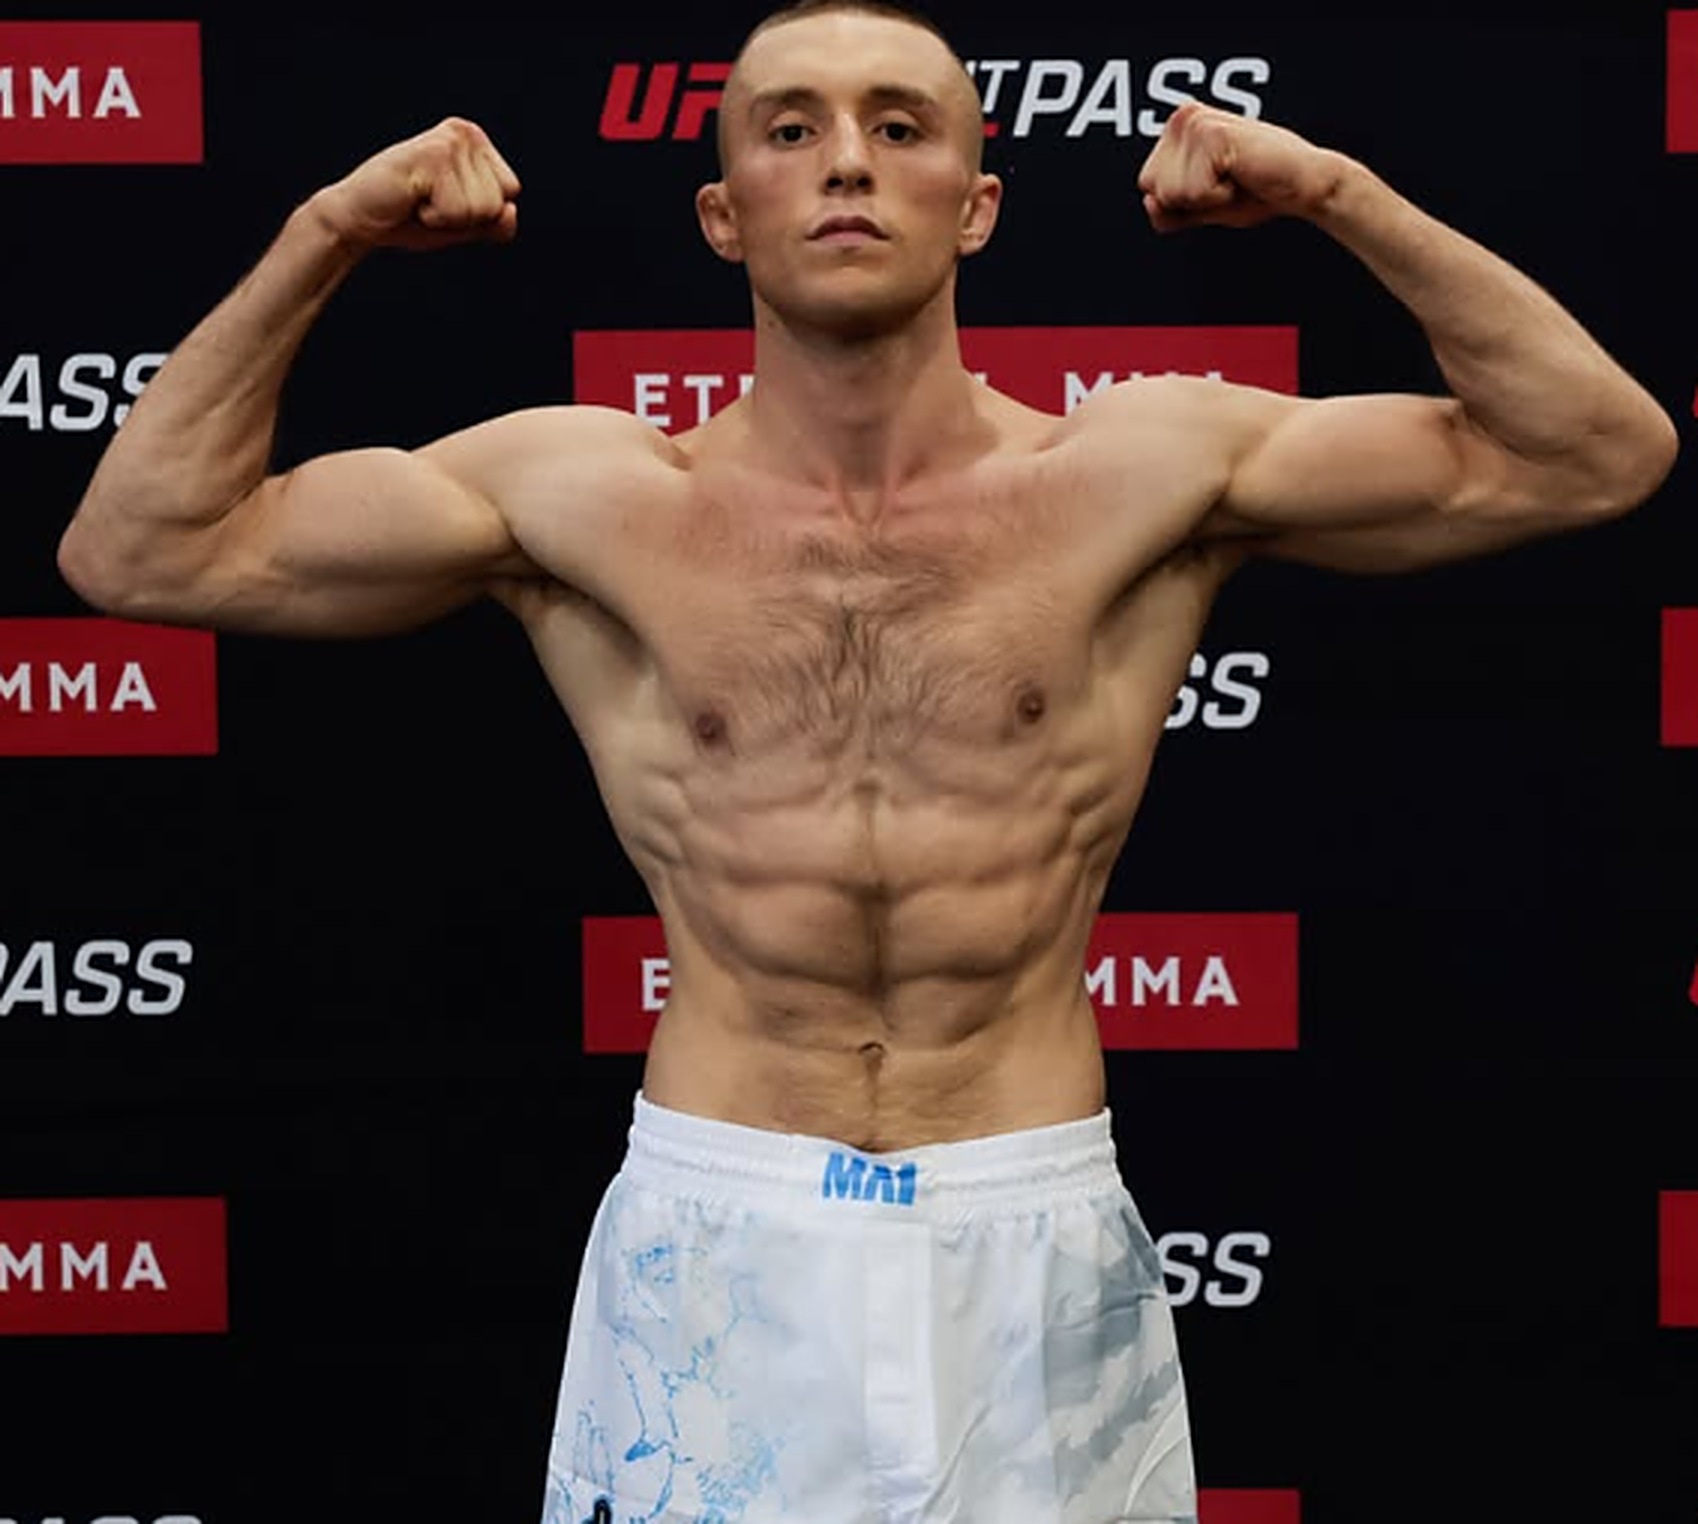
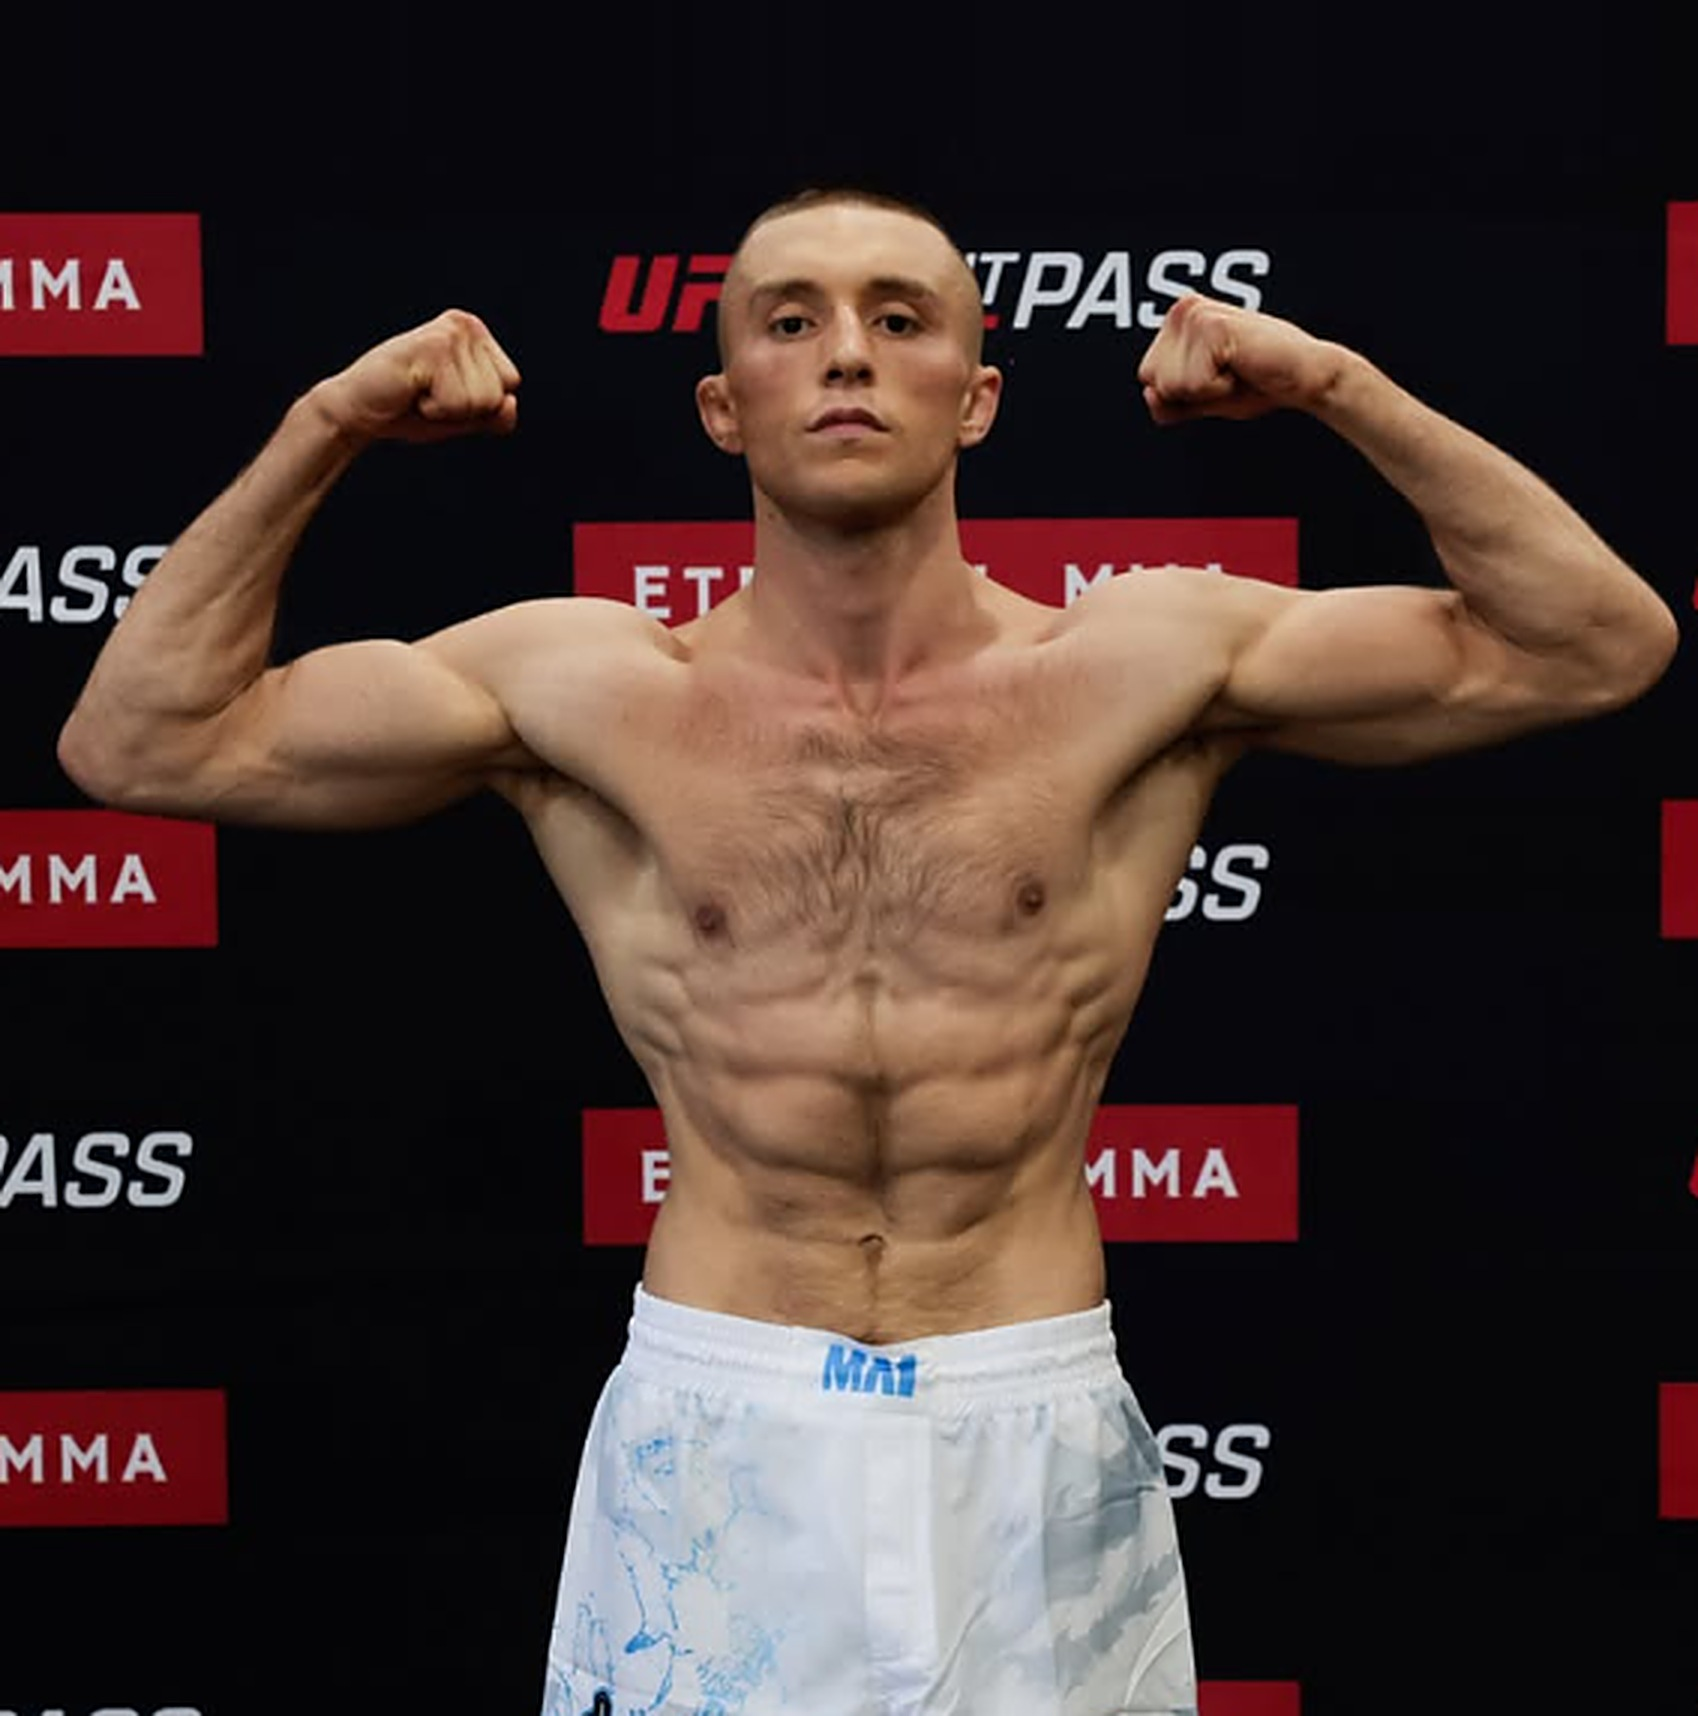
Lucas Cannon posters: add headroom so the top fade no longer cuts across his head
Claude-Session: https://claude.ai/code/session_01DwmoEp6G8GKXf7Z5ZN9Fqi

diff --git a/cagecraft-posters/lucas-cannon-e113/poster.html b/cagecraft-posters/lucas-cannon-e113/poster.html
@@ -47,10 +47,10 @@ html, body { background: var(--bg); }
 .url { position: absolute; right: 72px; color: rgba(255,255,255,.7); font-size: 15px; letter-spacing: .18em; }
 
 /* ---------- story 1080x1920 ---------- */
-.story .photo { width: 1300px; height: 1167px; left: -110px; top: 262px; }
+.story .photo { width: 1300px; height: 1314px; left: -110px; top: 125px; }
 .story .shade { background:
   radial-gradient(ellipse 60% 26% at 50% 30%, rgba(22,179,183,.16), transparent 70%),
-  linear-gradient(180deg, var(--bg) 0%, var(--bg) 13.2%, rgba(5,5,6,0) 15.6%, rgba(5,5,6,0) 52%, rgba(5,5,6,.82) 63%, var(--bg) 73%); }
+  linear-gradient(180deg, var(--bg) 0%, var(--bg) 8%, rgba(5,5,6,0) 12.5%, rgba(5,5,6,0) 52%, rgba(5,5,6,.82) 63%, var(--bg) 73%); }
 .story .top { top: 130px; } .story .top img { width: 330px; } .story .top .label { font-size: 21px; }
 .story .block { bottom: 132px; }
 .story .nick { font-size: 24px; }
@@ -63,10 +63,10 @@ html, body { background: var(--bg); }
 .story .url { top: 1828px; }
 
 /* ---------- post 1080x1350 ---------- */
-.post .photo { width: 1150px; height: 1032px; left: -35px; top: 112px; }
+.post .photo { width: 1150px; height: 1162px; left: -35px; top: -10px; }
 .post .shade { background:
   radial-gradient(ellipse 60% 30% at 50% 28%, rgba(22,179,183,.16), transparent 70%),
-  linear-gradient(180deg, var(--bg) 0%, var(--bg) 8%, rgba(5,5,6,0) 11.5%, rgba(5,5,6,0) 44%, rgba(5,5,6,.84) 58%, var(--bg) 70%); }
+  linear-gradient(180deg, var(--bg) 0%, var(--bg) 4.5%, rgba(5,5,6,0) 8%, rgba(5,5,6,0) 44%, rgba(5,5,6,.84) 58%, var(--bg) 70%); }
 .post .top { top: 58px; } .post .top img { width: 280px; } .post .top .label { font-size: 19px; }
 .post .block { bottom: 84px; }
 .post .nick { font-size: 20px; margin-bottom: 10px; margin-left: 76px; }
